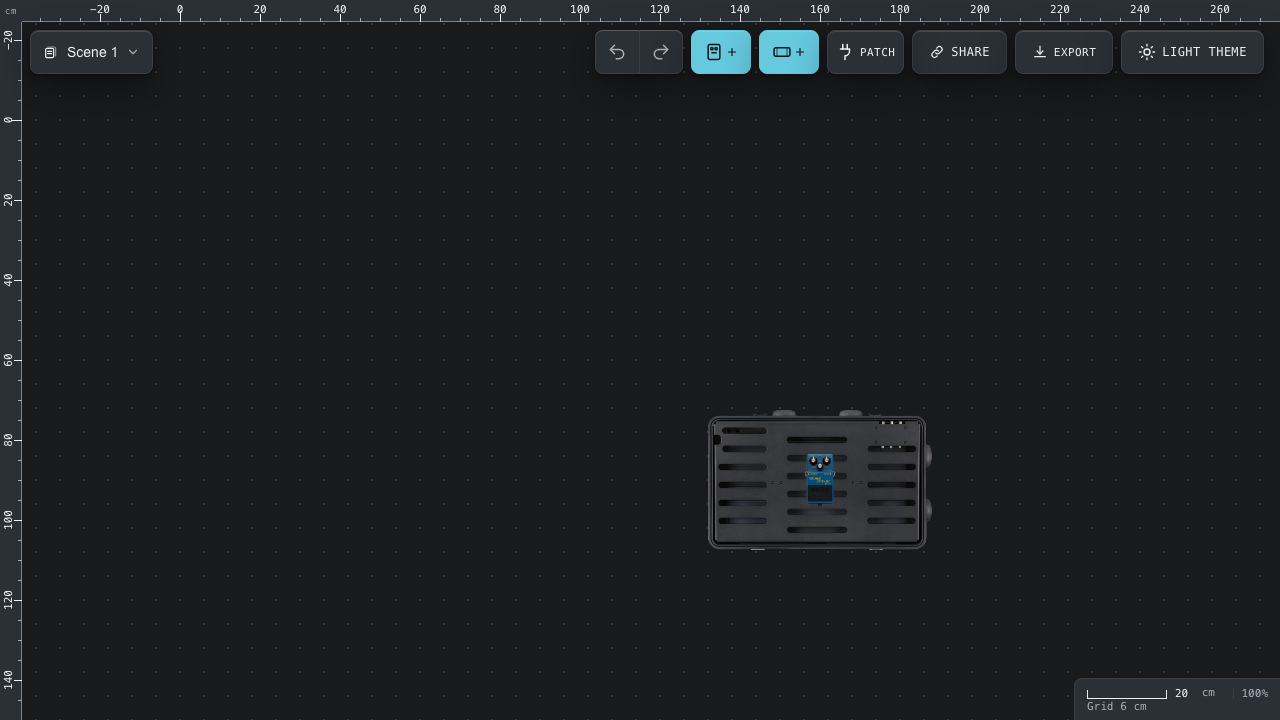
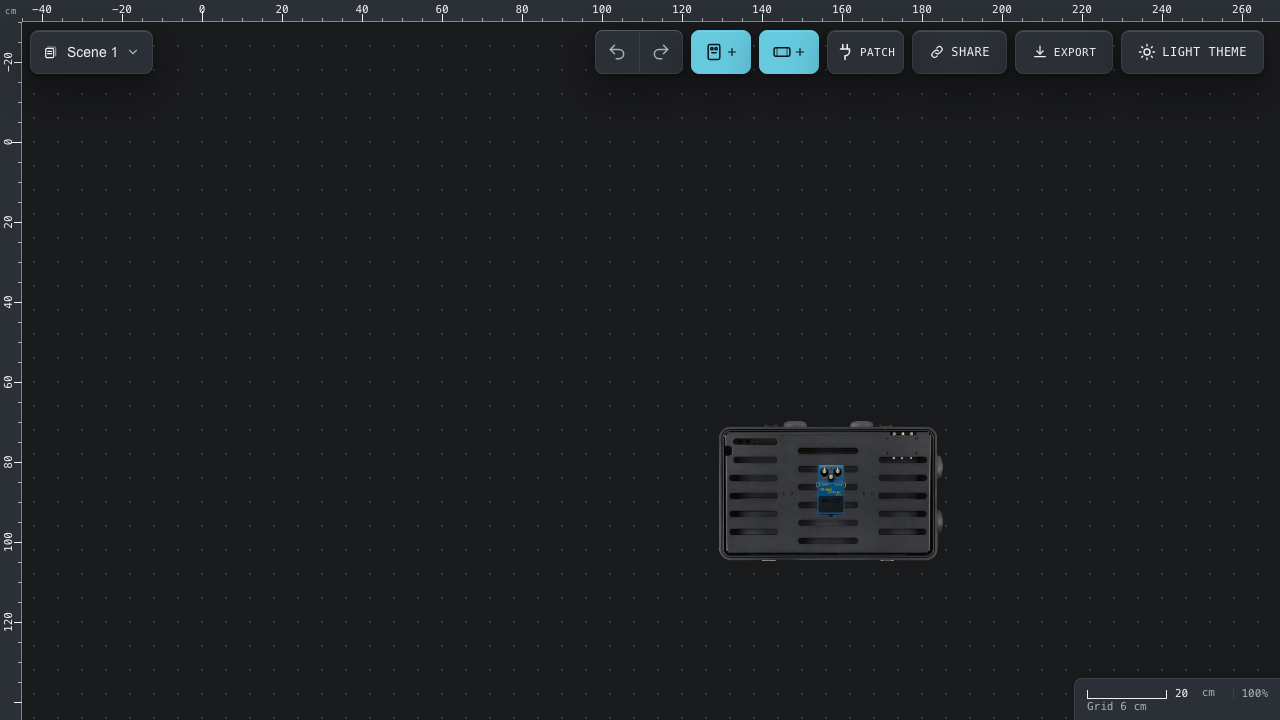
fix(hud): inset the frame, free the canvas corner, and tighten ruler labels

diff --git a/src/components/EdgeRules.tsx b/src/components/EdgeRules.tsx
@@ -33,7 +33,17 @@ function DesktopEdgeRules() {
 
 	if (size.width <= 0 || size.height <= 0) return null;
 
-	const ticks = buildRulerTicks(scale, units, size, { x, y });
+	// The stage is inset by the band on desktop, so the frame lives in the
+	// `.app-canvas` margin and never occludes world (0,0). The ruler's screen
+	// origin is the canvas pane; add the band offset to the stage transform.
+	const width = size.width + BAND;
+	const height = size.height + BAND;
+	const ticks = buildRulerTicks(
+		scale,
+		units,
+		{ width, height },
+		{ x: x + BAND, y: y + BAND },
+	);
 	const top = ticks.top;
 	const left = ticks.left;
 
@@ -53,8 +63,8 @@ function DesktopEdgeRules() {
 		>
 			<svg
 				className="edge-rules__svg"
-				width={size.width}
-				height={size.height}
+				width={width}
+				height={height}
 				aria-hidden="true"
 				focusable="false"
 			>
@@ -62,7 +72,7 @@ function DesktopEdgeRules() {
 					className="edge-rules__band"
 					x={0}
 					y={0}
-					width={size.width}
+					width={width}
 					height={BAND}
 				/>
 				<rect
@@ -70,13 +80,13 @@ function DesktopEdgeRules() {
 					x={0}
 					y={BAND}
 					width={BAND}
-					height={Math.max(0, size.height - BAND)}
+					height={Math.max(0, height - BAND)}
 				/>
 				<line
 					className="edge-rules__edge"
 					x1={0}
 					y1={BAND - 0.5}
-					x2={size.width}
+					x2={width}
 					y2={BAND - 0.5}
 				/>
 				<line
@@ -84,7 +94,7 @@ function DesktopEdgeRules() {
 					x1={BAND - 0.5}
 					y1={BAND}
 					x2={BAND - 0.5}
-					y2={size.height}
+					y2={height}
 				/>
 
 				{top.map((tick, index) => {
@@ -110,6 +120,7 @@ function DesktopEdgeRules() {
 							// biome-ignore lint/suspicious/noArrayIndexKey: ruler labels are read-only rows
 							key={`top-label-${index}`}
 							className="edge-rules__label"
+							data-axis="top"
 							x={Math.round(tick.px)}
 							y={BAND - 9}
 							textAnchor="middle"
@@ -141,6 +152,7 @@ function DesktopEdgeRules() {
 							// biome-ignore lint/suspicious/noArrayIndexKey: ruler labels are read-only rows
 							key={`left-label-${index}`}
 							className="edge-rules__label"
+							data-axis="left"
 							x={BAND - 10}
 							y={Math.round(tick.px)}
 							textAnchor="middle"

diff --git a/src/index.css b/src/index.css
@@ -5424,6 +5424,9 @@ body {
 	right: 0;
 	bottom: 0;
 	z-index: 1;
+	/* Readout chrome only: the unit toggle re-enables itself. Canvas pan and
+	 * deselect must still reach the stage under the bottom-right corner. */
+	pointer-events: none;
 	display: flex;
 	flex-direction: column;
 	gap: 2px;
@@ -5483,6 +5486,7 @@ body {
 	justify-content: center;
 	min-width: 44px;
 	min-height: 44px;
+	pointer-events: auto;
 	/* Negative margins keep the 44 px target without growing the tag row. */
 	margin: -15px -10px;
 	padding: 0;
@@ -5529,6 +5533,13 @@ body {
 
 /* Desktop chrome clears the frame: rules are 22 px, then an 8 px gutter. */
 @media (min-width: 1024px) {
+	/* The frame is a border, not an overlay: the stage starts after the band so
+	 * a board/item at world (0,0) is never hidden under opaque ruler chrome. */
+	.stage {
+		top: var(--ruler-size);
+		left: var(--ruler-size);
+	}
+
 	.app-toolbar {
 		top: var(--chrome-top);
 	}

diff --git a/e2e/measurement-hud.spec.ts b/e2e/measurement-hud.spec.ts
@@ -33,8 +33,11 @@ test("desktop rulers show world cm and follow pan + zoom", async ({
 	const topLabels = ((await rules.getAttribute("data-top-labels")) ?? "")
 		.split(",")
 		.filter(Boolean);
-	const domLabels = await rules.locator(".edge-rules__label").allTextContents();
-	for (const label of topLabels) expect(domLabels).toContain(label);
+	const leftLabels = ((await rules.getAttribute("data-left-labels")) ?? "")
+		.split(",")
+		.filter(Boolean);
+	await expect(rules.locator('[data-axis="top"]')).toHaveText(topLabels);
+	await expect(rules.locator('[data-axis="left"]')).toHaveText(leftLabels);
 
 	// Pan on empty canvas: labels are world coordinates, so they move.
 	const before = await rules.getAttribute("data-top-labels");

diff --git a/src/lib/useMobile.ts b/src/lib/useMobile.ts
@@ -4,9 +4,9 @@ import { useEffect, useState } from "react";
 export const MOBILE_MEDIA = "(max-width: 1023px)";
 
 /**
- * One shared viewport hook for components that branch at the 1023 px boundary.
- * The breakpoint literal previously lived in InfoPanel, ScaleTag and the
- * action-bar layout; this keeps new chrome on the same rule.
+ * One shared viewport hook for the new desktop/mobile chrome. InfoPanel and
+ * `actionBarLayout` keep their own pre-existing 1023 px literals; new
+ * components should import this instead of adding another copy.
  */
 export function useIsMobile(): boolean {
 	const [isMobile, setIsMobile] = useState(

diff --git a/docs/tasks/P2-03-measurement-hud.md b/docs/tasks/P2-03-measurement-hud.md
@@ -131,9 +131,10 @@ Roadmap item **F-03** (Phase 1 — core correctness and polish).
 - `pnpm build` clean.
 - `pnpm exec playwright test e2e/measurement-hud.spec.ts e2e/smoke.spec.ts
   e2e/info-panel.spec.ts` (desktop + mobile): **38 passed / 5 skipped**
-  (the skips are the deliberate desktop/mobile `test.skip` branches).
+  (the skips are the deliberate desktop/mobile `test.skip` branches). The wider
+  affected set (`+ export`, `selection`, `picker-choka`): **67 passed / 6 skipped**.
 - **Performance** (same scene, base `83ef9b0` → this branch): main JS
-  **303.16 → 305.03 kB gzip** (+1.87), CSS **12.07 → 12.69 kB gzip** (+0.62);
+  **303.16 → 305.06 kB gzip** (+1.90), CSS **12.07 → 12.71 kB gzip** (+0.64);
   canvas wheel-zoom **62 → 62 fps**; JS heap **12.8 → 9.5 MB** (lower; GC
   variance); picker open median **57 → 59 ms** (5 samples); share link
   **358 → 359 B**; the frame adds **102 tick nodes / 25 labels**. Export is
